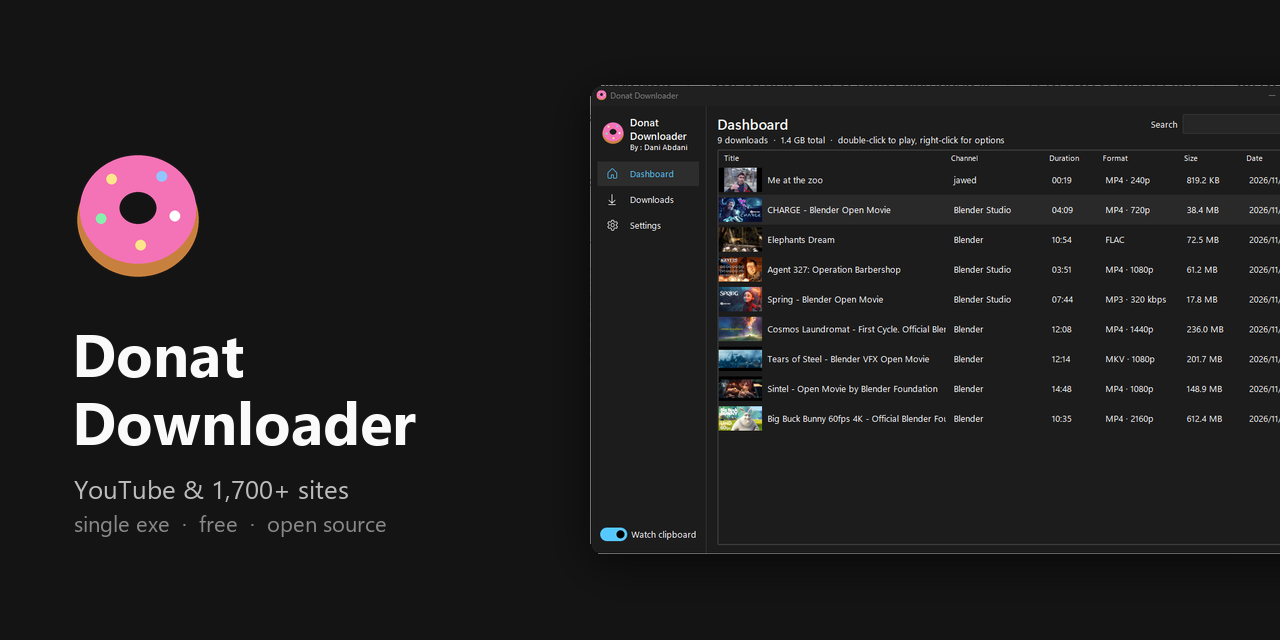
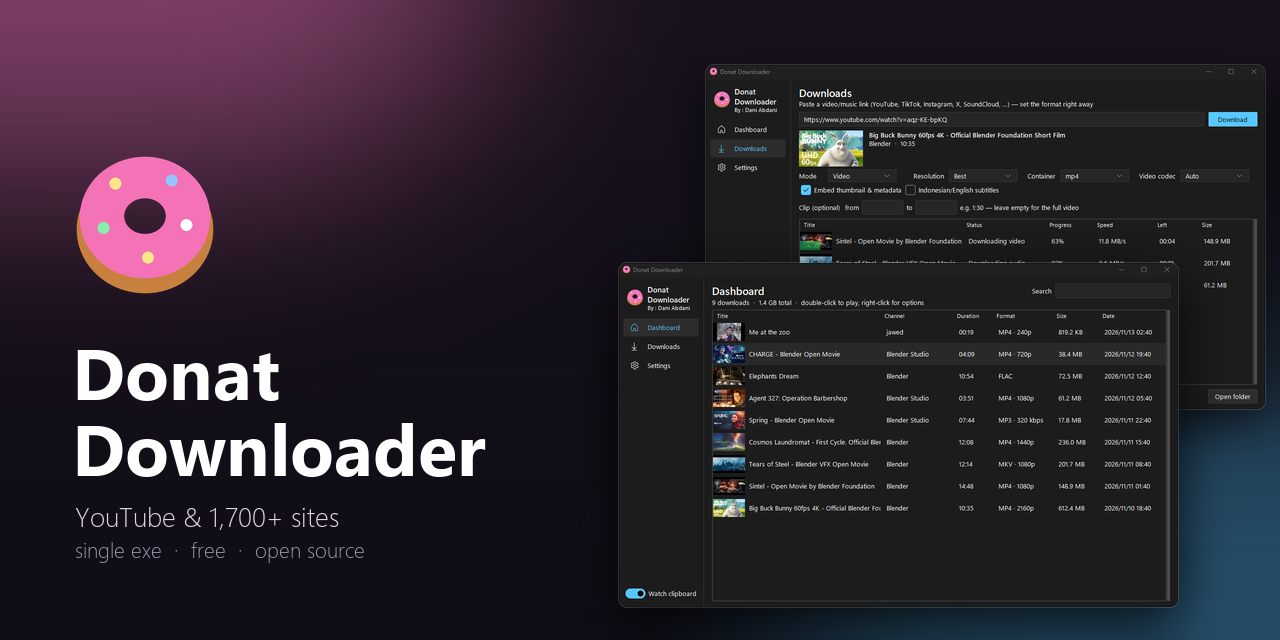
docs: social card redone in the Donat Screen layout
Gradient with pink/blue glow, donut and two-line name left, overlapping
Downloads + Dashboard windows with shadows right (tools/hero.py social()).

diff --git a/docs/index.html b/docs/index.html
@@ -12,7 +12,7 @@
 <meta property="og:title" content="Donat Downloader – free video & music downloader">
 <meta property="og:description" content="YouTube and 1,700+ sites. Copy a link, pick a format, done. One small exe.">
 <meta property="og:url" content="https://abdani.github.io/Donat-Downloader/">
-<meta property="og:image" content="https://abdani.github.io/Donat-Downloader/images/social-preview.png">
+<meta property="og:image" content="https://abdani.github.io/Donat-Downloader/images/social-preview.png?v=2">
 <meta name="twitter:card" content="summary_large_image">
 <script type="application/ld+json">
 {"@context": "https://schema.org", "@type": "SoftwareApplication",
@@ -20,7 +20,7 @@
  "description": "Free Windows downloader for video and music from YouTube and 1,700+ sites.",
  "offers": {"@type": "Offer", "price": "0", "priceCurrency": "USD"},
  "downloadUrl": "https://github.com/abdani/Donat-Downloader/releases/latest/download/Donat-Downloader.exe",
- "image": "https://abdani.github.io/Donat-Downloader/images/social-preview.png",
+ "image": "https://abdani.github.io/Donat-Downloader/images/social-preview.png?v=2",
  "screenshot": "https://abdani.github.io/Donat-Downloader/images/dashboard.png",
  "author": {"@type": "Person", "name": "Dani Abdani", "url": "https://github.com/abdani"},
  "license": "https://opensource.org/licenses/MIT"}

diff --git a/tools/hero.py b/tools/hero.py
@@ -89,5 +89,26 @@ def hero():
     print(out, c.size, os.path.getsize(out) // 1024, "KB")
 
 
+def social():
+    """1280x640 card in the Donat Screen layout: donut + name left, overlapping app windows right."""
+    W, H = 1280, 640
+    c = gradient(W, H)
+    d = ImageDraw.Draw(c)
+    logo = Image.open(os.path.join(IMG, "donut.png")).convert("RGBA")
+    logo = logo.crop(logo.getchannel("A").getbbox()).resize((140, 140), Image.LANCZOS)
+    c.alpha_composite(logo, (75, 155))
+    title = font("segoeuib.ttf", 72)
+    d.text((72, 322), "Donat", font=title, fill=(255, 255, 255))
+    d.text((72, 398), "Downloader", font=title, fill=(255, 255, 255))
+    d.text((75, 497), "YouTube & 1,700+ sites", font=font("segoeuil.ttf", 27), fill=(222, 214, 232))
+    d.text((75, 535), "single exe  ·  free  ·  open source", font=font("segoeuil.ttf", 21), fill=(160, 150, 175))
+    place(c, shot("downloads.png", 0.5, r=8), W - 561 - 14, 64, blur=22, drop=14, opacity=170)
+    place(c, shot("dashboard.png", 0.5, r=8), 618, 262, blur=24, drop=16, opacity=200)
+    out = os.path.join(IMG, "social-preview.png")
+    c.convert("RGB").save(out, optimize=True)
+    print(out, c.size, os.path.getsize(out) // 1024, "KB")
+
+
 if __name__ == "__main__":
     hero()
+    social()

diff --git a/README.md b/README.md
@@ -1,5 +1,5 @@
 <p align="center">
-  <a href="https://abdani.github.io/Donat-Downloader/"><img src="docs/images/social-preview.png" alt="Donat Downloader — YouTube & 1,700+ sites, single exe"></a>
+  <a href="https://abdani.github.io/Donat-Downloader/"><img src="docs/images/social-preview.png?v=2" alt="Donat Downloader — YouTube & 1,700+ sites, single exe"></a>
 </p>
 
 <h1 align="center">Donat Downloader</h1>
